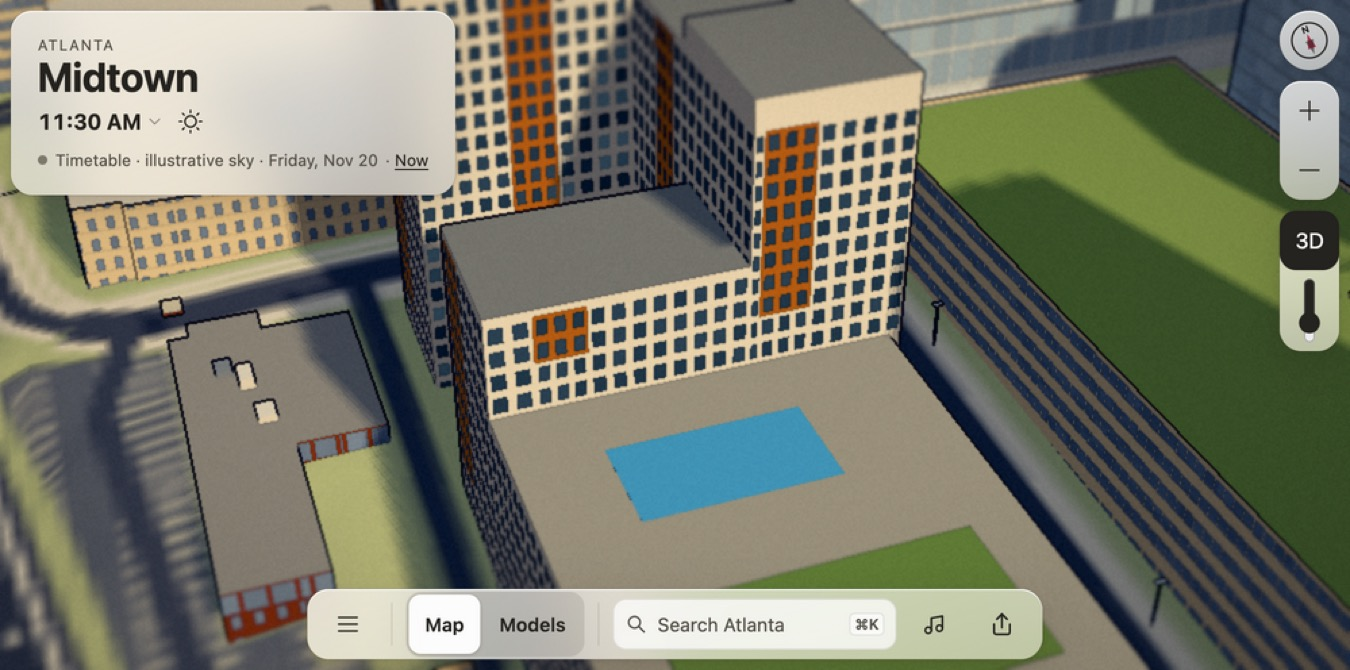
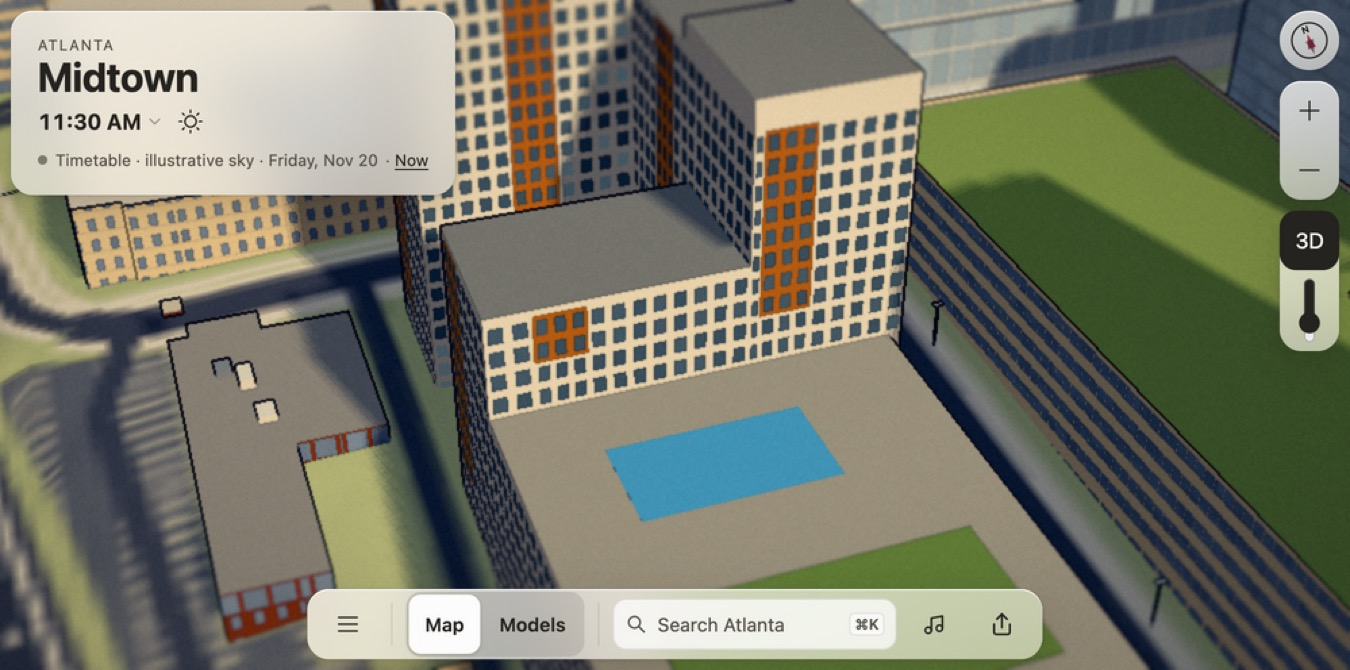
Lift The Standard's window glass so shaded faces stay legible
Pane base #4b5d68 -> #5d707b (S 24%, V 48%), per the provisional glass rules.

diff --git a/web/src/city/the-standard.ts b/web/src/city/the-standard.ts
@@ -57,7 +57,7 @@ export function createTheStandard(buildings: VBuilding[], site: VBuilding, grid:
     return Math.max(datum, ...masses.filter(m => inside(mx, mz, m.ring)).map(m => m.top));
   };
   const precast = '#d9d6cf', amber = '#b8743f', roofColor = '#8e8f8b';
-  const punched = ['#4b5d68', '#526571'];
+  const punched = ['#5d707b', '#647782'];
   const storefront = ['#5a7584', '#617c8a'];
 
   for (const [index, { ring, top }] of masses.entries()) {
